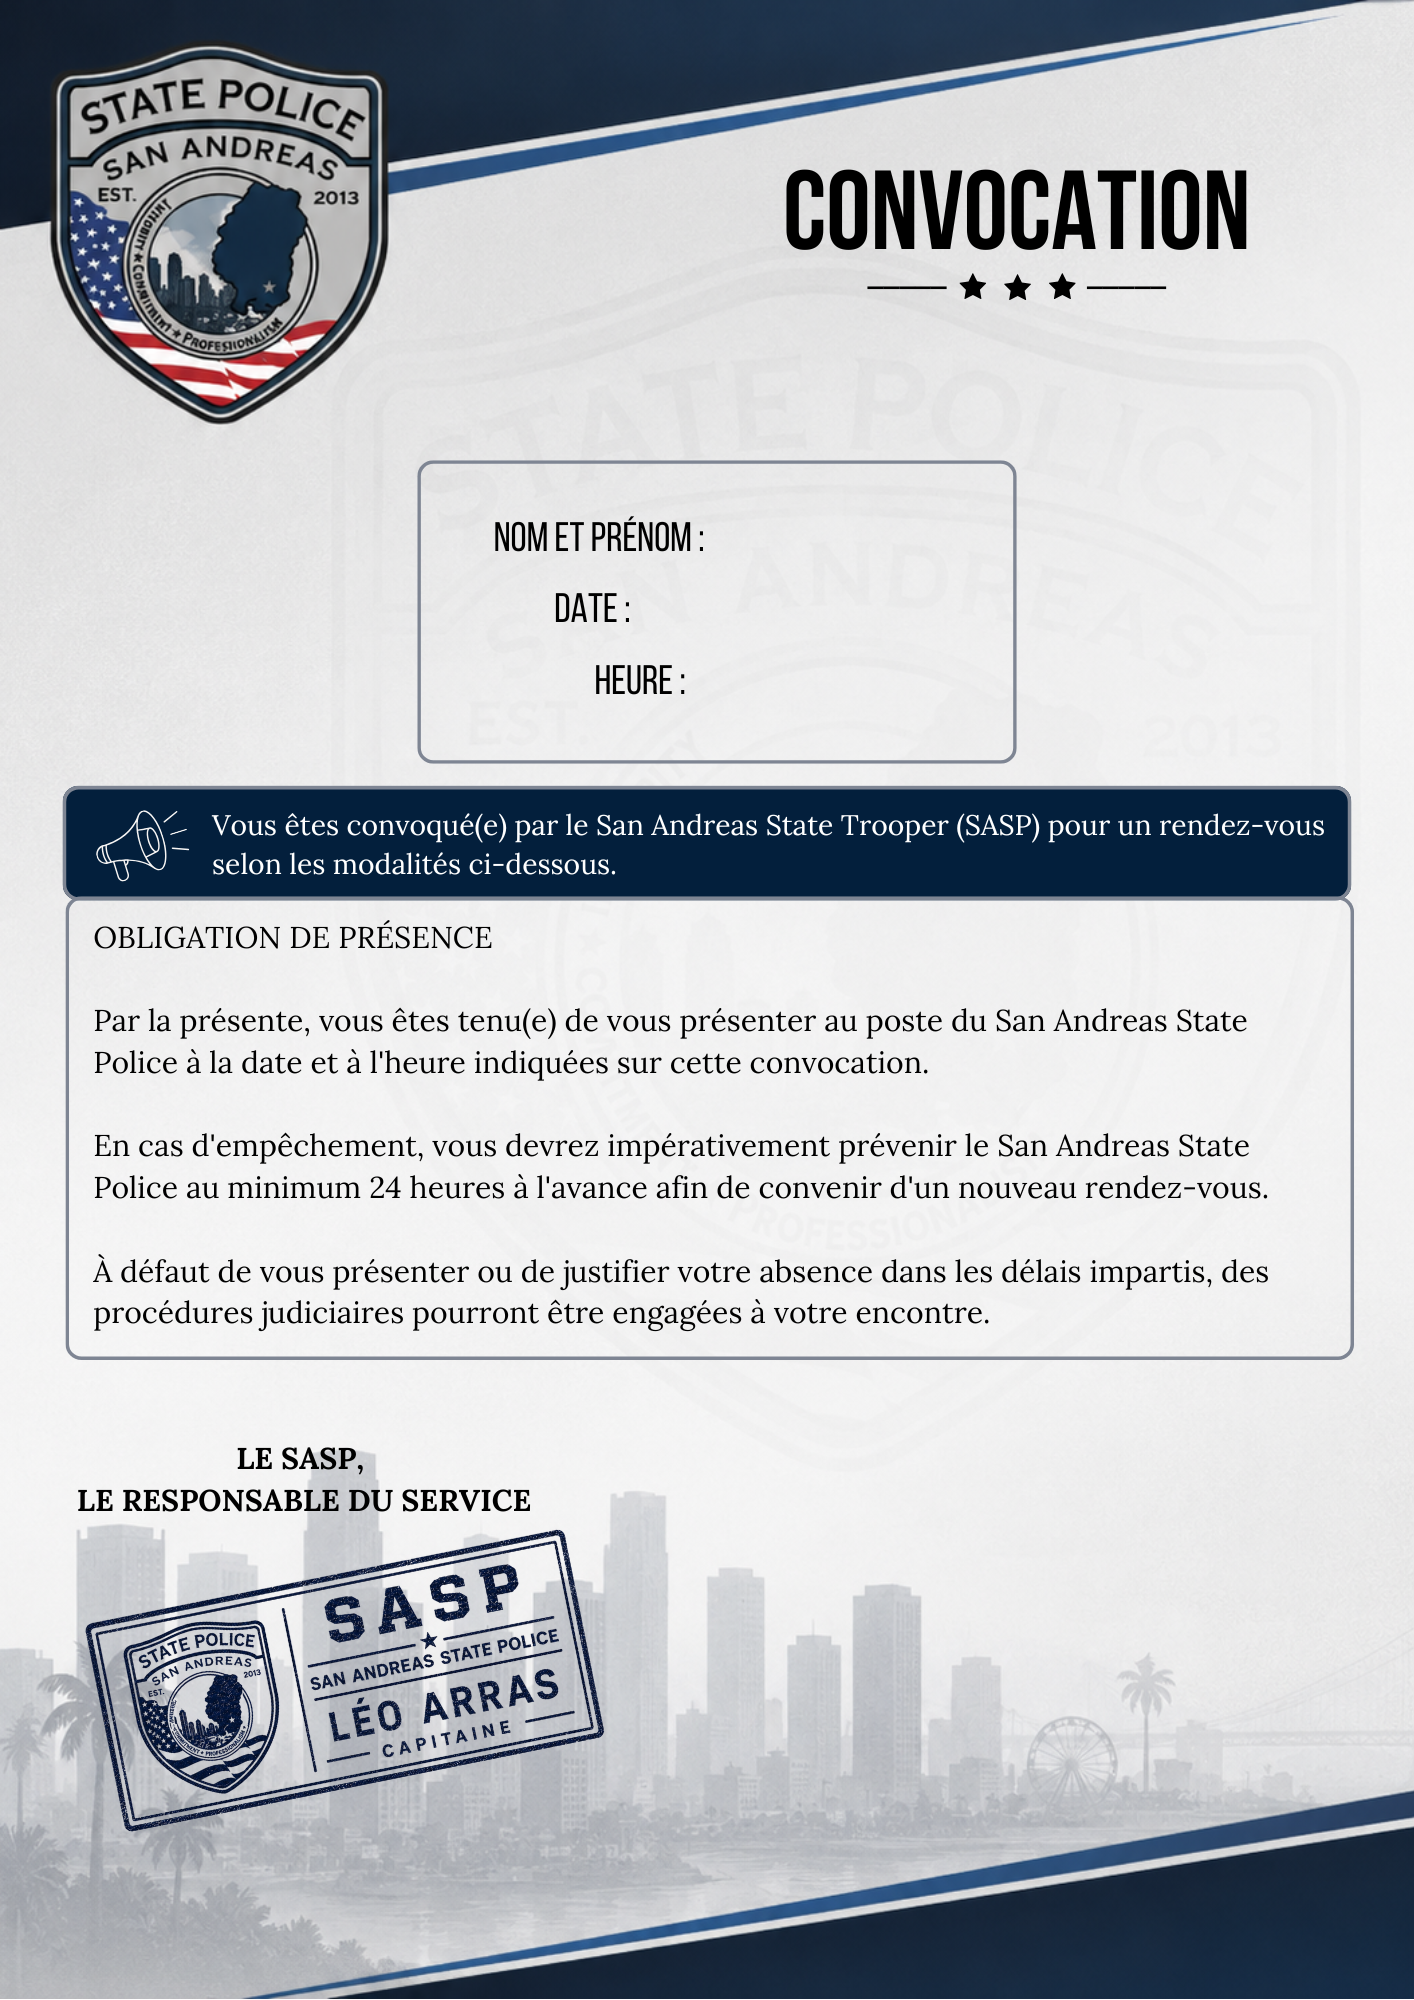
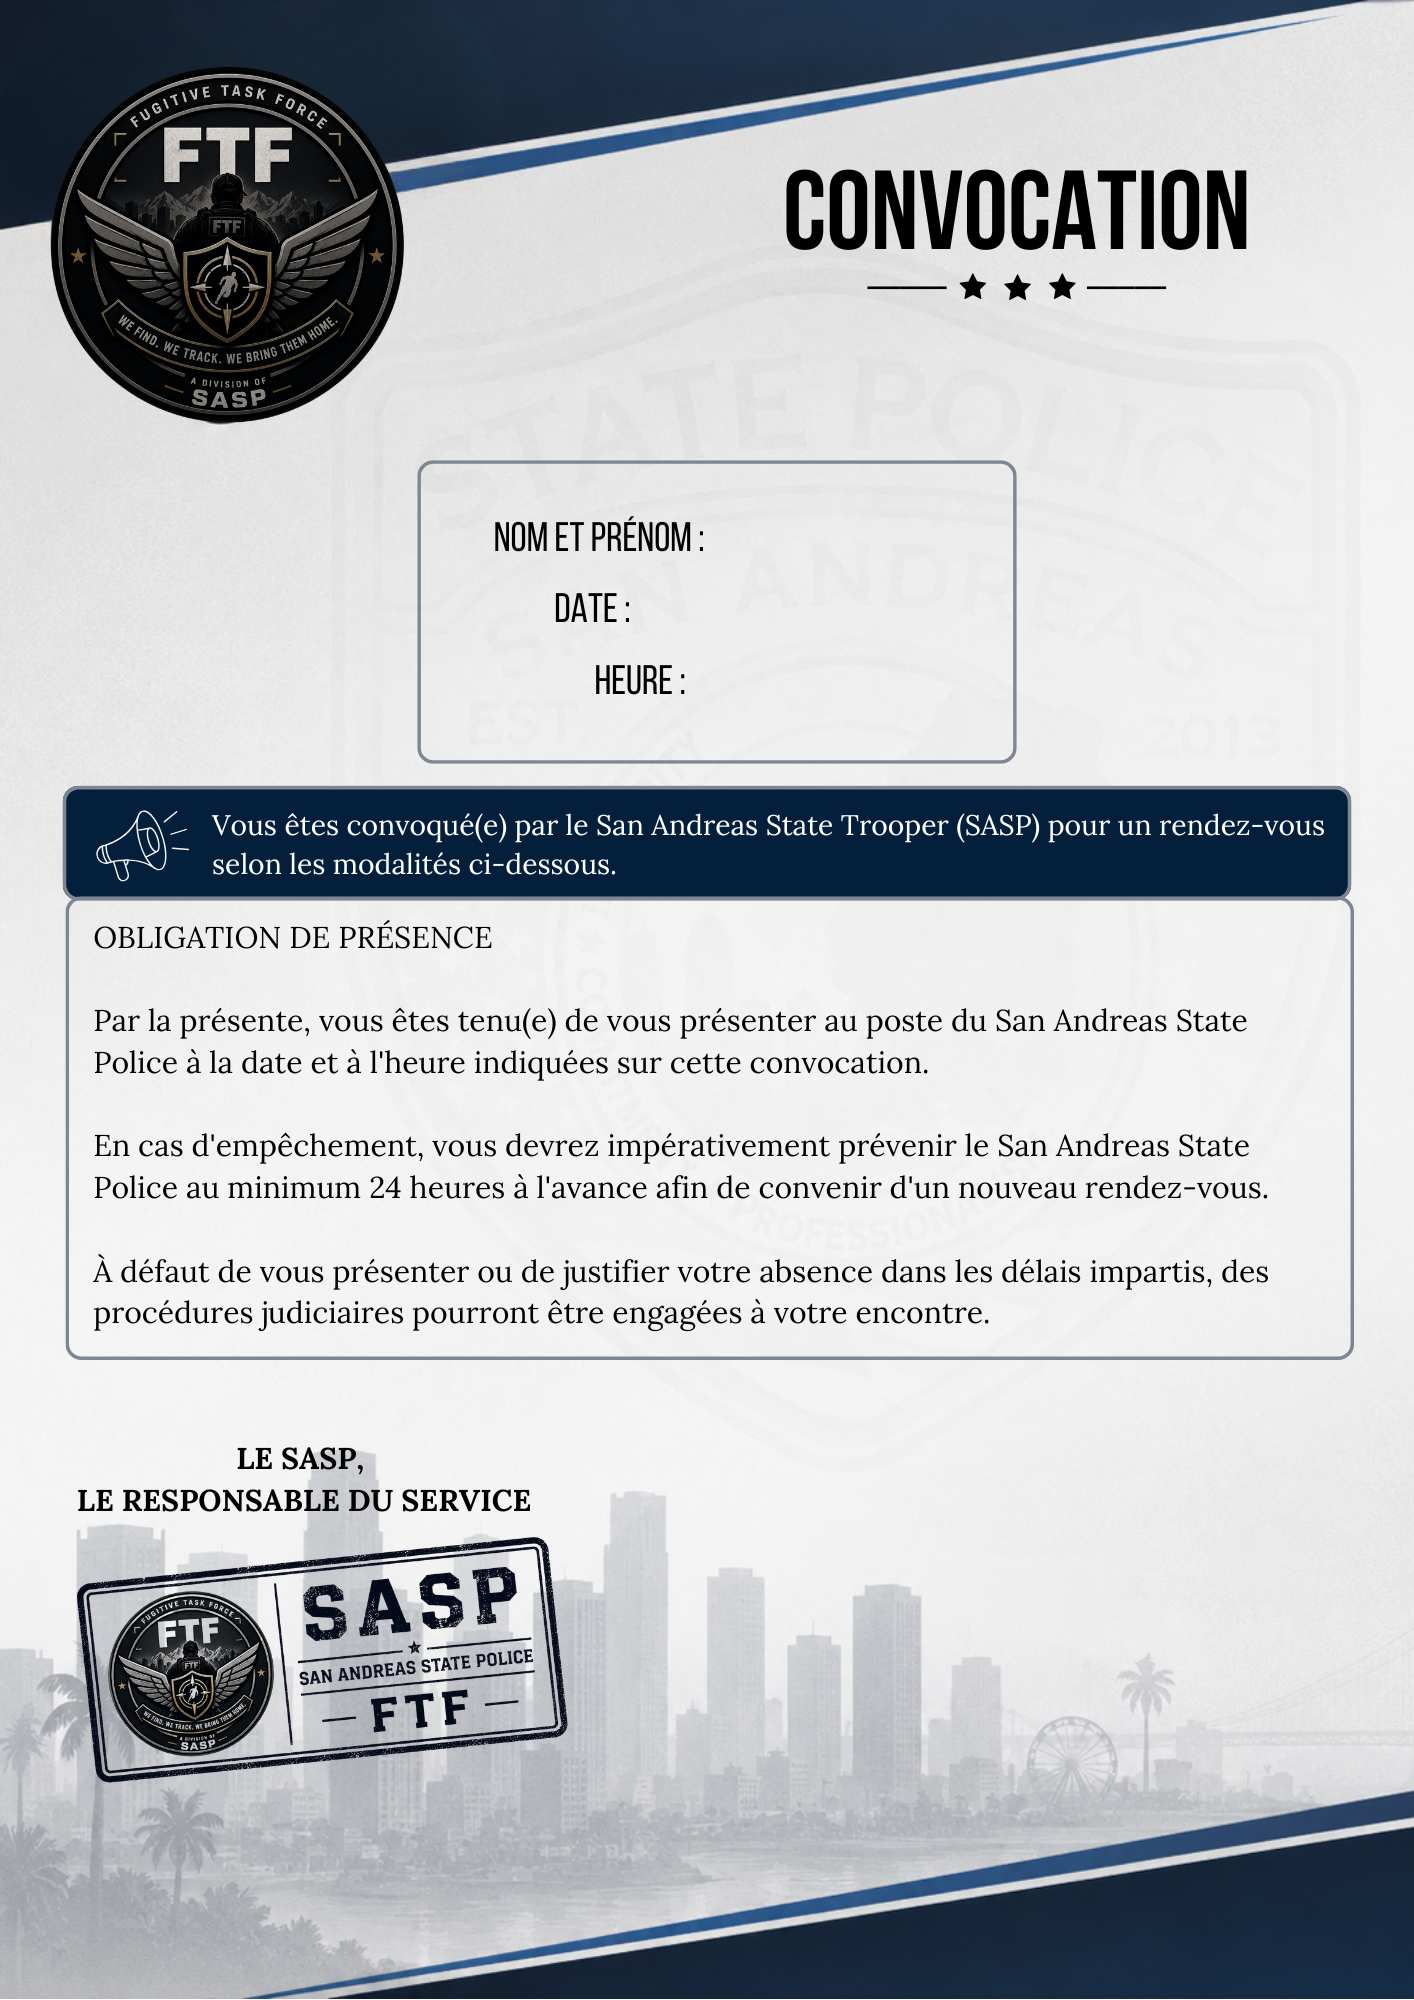
Update FTF convocation template alignment

Changed region(s): [[0.0311, 0.744, 0.4356, 0.93], [0.0311, 0.0, 0.3112, 0.217]]

diff --git a/app.js b/app.js
@@ -811,10 +811,10 @@ async function buildFtfConvocationPng(d, dateValue, hourValue) {
   ctx.textBaseline = 'middle';
   ctx.textAlign = 'left';
   ctx.font = '700 31px Arial, sans-serif';
-  ctx.fillText(((d.nom || '') + ' ' + (d.prenom || '')).trim().toUpperCase(), 700, 552, 420);
+  ctx.fillText(((d.nom || '') + ' ' + (d.prenom || '')).trim().toUpperCase(), 688, 552, 420);
   ctx.font = '700 31px Arial, sans-serif';
-  ctx.fillText(ftfFormatConvocationDate(dateValue), 700, 623, 245);
-  ctx.fillText(ftfFormatConvocationHour(hourValue), 700, 694, 170);
+  ctx.fillText(ftfFormatConvocationDate(dateValue), 636, 623, 245);
+  ctx.fillText(ftfFormatConvocationHour(hourValue), 675, 694, 170);
   return canvas.toDataURL('image/png');
 }
 function ftfFilteredDossiers() {
